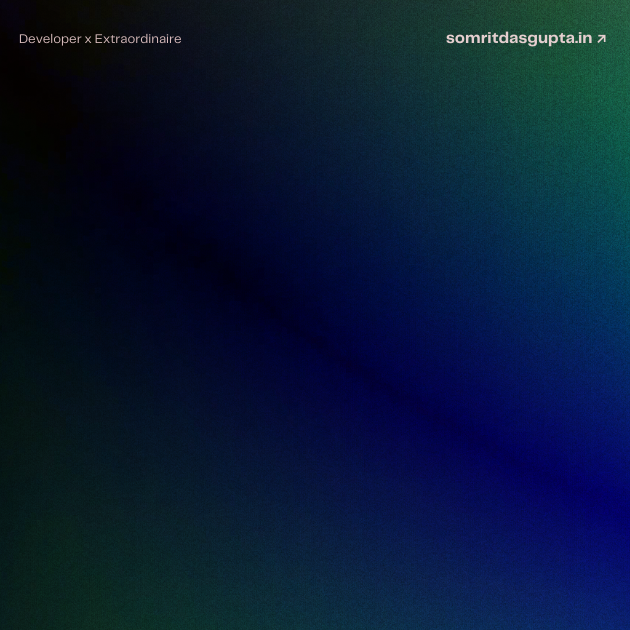
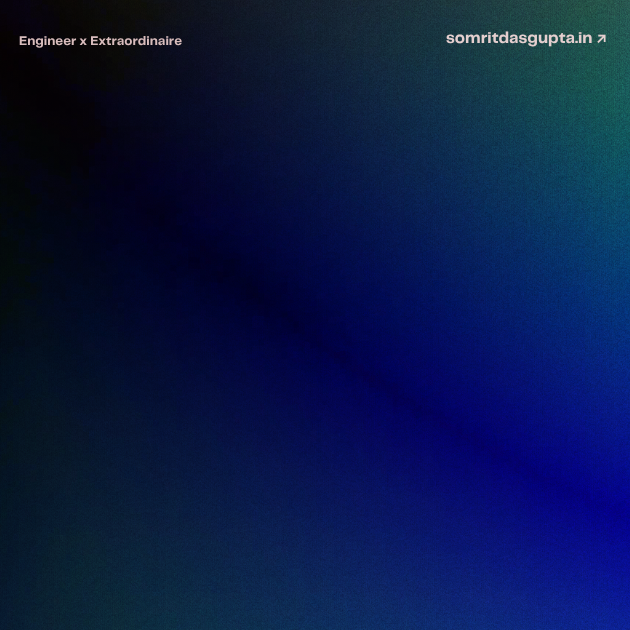
feat: Update personal branding across the site; change titles and descriptions to reflect new identity as "Engineer x Extraordinaire" and remove unused files

Changed region(s): [[0.0, 0.0, 1.0, 1.0], [0.0302, 0.0302, 0.3016, 0.0905], [0.7238, 0.0302, 0.754, 0.0603]]

diff --git a/app/layout.tsx b/app/layout.tsx
@@ -17,15 +17,13 @@ export const revalidate = 43200;
 export const metadata: Metadata = {
   metadataBase: new URL(baseUrl),
   title: {
-    default: "Somrit Dasgupta - Developer and Engineer",
+    default: "Somrit Dasgupta - Engineer x Extraordinaire",
     template: "%s | Somrit Dasgupta",
   },
-  description:
-    "Personal website and blog of Somrit Dasgupta, a developer and engineer.",
+  description: "Personal website and blog of Somrit Dasgupta",
   openGraph: {
-    title: "Somrit Dasgupta - Developer and Engineer",
-    description:
-      "Personal website and blog of Somrit Dasgupta, a developer and engineer.",
+    title: "Somrit Dasgupta - Engineer x Extraordinaire",
+    description: "Personal website and blog of Somrit Dasgupta",
     url: baseUrl,
     siteName: "Somrit Dasgupta",
     locale: "en_US",
@@ -38,7 +36,7 @@ export const metadata: Metadata = {
         url: `${baseUrl}/api/og?title=${encodeURIComponent(
           "hey, I'm Somrit 👋"
         )}`,
-        alt: "Somrit Dasgupta - Developer and Engineer",
+        alt: "Somrit Dasgupta - Engineer x Extraordinaire",
       },
     ],
   },
@@ -208,7 +206,7 @@ export default function RootLayout({
               name: "Somrit Dasgupta",
               jobTitle: "Software Engineer",
               description:
-                "Personal website and blog of Somrit Dasgupta, a developer and engineer.",
+                "Personal website and blog of Somrit Dasgupta - a developer, engineer & extraordinaire",
               image: `${baseUrl}/somritdasgupta.jpg`,
               sameAs: [
                 "https://www.instagram.com/somritdasgupta",
@@ -227,9 +225,9 @@ export default function RootLayout({
               "@context": "https://schema.org",
               "@type": "WebSite",
               url: baseUrl,
-              name: "Somrit Dasgupta - Developer and Engineer",
+              name: "Somrit Dasgupta - Engineer x Extraordinaire",
               description:
-                "Personal website and blog of Somrit Dasgupta, a developer and engineer.",
+                "Personal website and blog of Somrit Dasgupta - a developer, engineer & extraordinaire.",
               publisher: {
                 "@type": "Person",
                 name: "Somrit Dasgupta",

diff --git a/app/api/embed/route.tsx b/app/api/embed/route.tsx
@@ -424,7 +424,7 @@ export async function GET(request: NextRequest) {
         <div class="author-fallback" style="display: none;">SD</div>
         <div class="author-info">
           <h4>Somrit Dasgupta</h4>
-          <p>Software Developer & Blogger</p>
+          <p>Engineer x Extraordinaire</p>
         </div>
       </div>
     </div>
